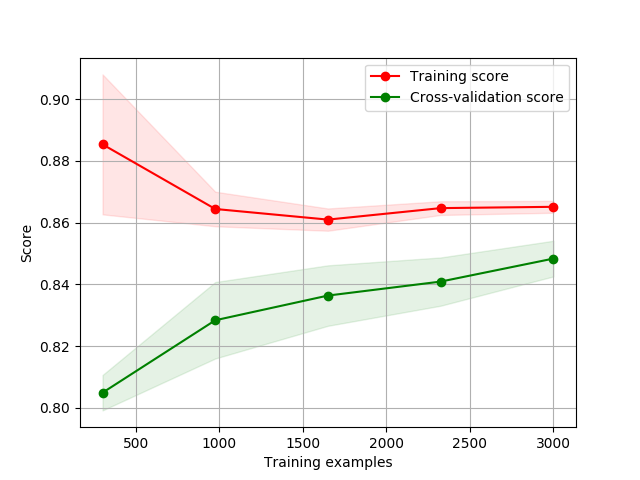
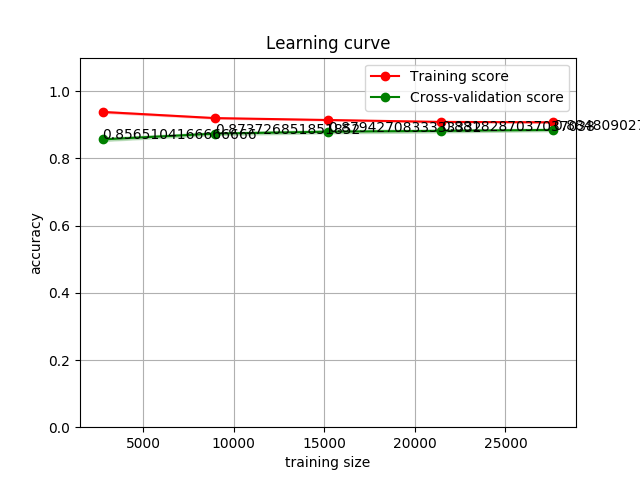
added learning curve

diff --git a/tuning.py b/tuning.py
@@ -2,6 +2,7 @@ from sklearn.svm import SVC
 from sklearn.model_selection import learning_curve, validation_curve
 from sklearn.pipeline import Pipeline
 from sklearn.preprocessing import StandardScaler
+from sklearn.utils import shuffle
 import numpy as np
 import matplotlib.pyplot as plt
 
@@ -19,7 +20,6 @@ def plot_curve(curve_fxn, extra_curve_args, model, title, xlabel, ylabel, fname,
         ('scale', StandardScaler()),
         ('clf', model)
     ])
-    #import pdb;pdb.set_trace()
 
     result = curve_fxn(pipe, X, y, cv=5, n_jobs=1, scoring='accuracy', **extra_curve_args)
 
@@ -33,7 +33,6 @@ def plot_curve(curve_fxn, extra_curve_args, model, title, xlabel, ylabel, fname,
     test_scores_mean = np.mean(test_scores, axis=1)
     test_scores_std = np.std(test_scores, axis=1)
     plt.grid()
-    print(test_scores_mean)
     plt.fill_between(xvals, train_scores_mean - train_scores_std,
                      train_scores_mean + train_scores_std, alpha=0.2,
                      color="r")
@@ -44,12 +43,14 @@ def plot_curve(curve_fxn, extra_curve_args, model, title, xlabel, ylabel, fname,
            label="Training score")
     plt.plot(xvals, test_scores_mean, 'o-', color="g",
            label="Cross-validation score")
+    for a,b in zip(xvals, test_scores_mean):
+        plt.text(a,b,str(b))
     plt.legend(loc='best')
     plt.savefig(fname)
     plt.clf()
 
 X,y = get_train_steins()
-
+X,y = shuffle(X,y)
 # plot validation curve
 param_range = [10,20,30,40,50]
 extra_args = {'param_range':param_range, 'param_name':'clf__C'}
@@ -61,3 +62,21 @@ plot_curve(
 )
 
 # plot learning curve
+optimal_C=30
+plot_curve(
+    learning_curve, {}, SVC(C=optimal_C), 
+    'Learning curve', 'training size', 'accuracy', 'kernel_svc_learning_curve.png', 
+    X, y, 
+    1, 2, 0
+)
+
+
+
+
+
+
+
+
+
+
+
